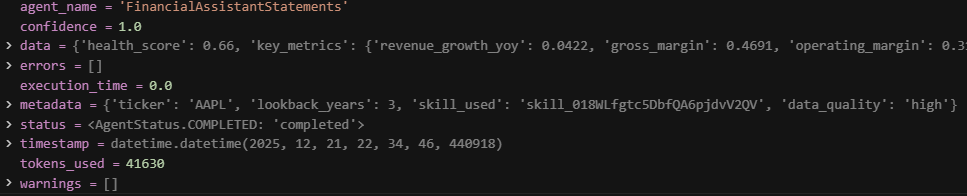
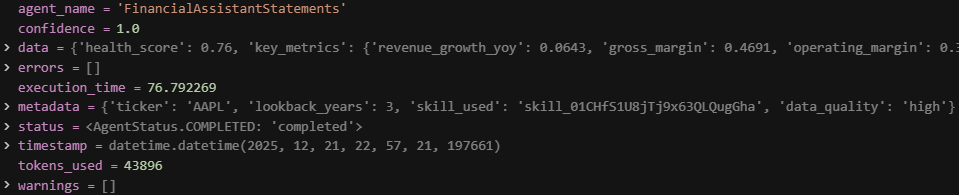
Fixed financial statements example and updated README

diff --git a/examples/financial_statements_example.py b/examples/financial_statements_example.py
@@ -23,7 +23,7 @@ async def main():
     skills_base_path = Path.cwd() / "src" / "skills"
     skill_specs = get_agent_skill_specs_for_system(client, skills_base_path)
     agent = FinancialAssistantStatements(client, skill_specs["statements"])
-    response = await agent.analyze(
+    response = await agent.execute(
         AgentTask(
             task_id="analyzing-financial-statements",
             ticker="AAPL",

diff --git a/src/agents/assistant_statements.py b/src/agents/assistant_statements.py
@@ -134,6 +134,7 @@ class FinancialAssistantStatements(BaseAgent):
                 "Total Revenue",
                 "Cost Of Revenue",
                 "Operating Income",
+                "Interest Expense",
             ]
         ]
         balance_sheet = balance_sheet.loc[

diff --git a/README.md b/README.md
@@ -121,13 +121,13 @@ The core of the agent's response is available in field `data`, which in addition
 - Data quality notes
 
 ```python
-'Financial data is complete for the 3-year analysis period (2023-2025). Some estimated calculations used for interest coverage due to unavailable interest expense data.'
+'Financial data is complete for 2022-2025 period. Interest expense data missing for 2024-2025, using 2023 data for coverage ratio. High quality data from reliable sources.'
 ```
 
 - Health score notes
 
 ```python
-"Health score of 0.660 reflects Apple's strong profitability and operational efficiency, offset by liquidity concerns from negative working capital. The company's exceptional ROE of 151.9% and consistent cash generation support the overall positive assessment despite short-term liquidity metrics."
+"Score of 0.76 reflects Apple's exceptional profitability (net margin 26.9%), solid growth trajectory, but considers liquidity constraints from negative working capital structure and moderate leverage levels. Strong cash generation and market position support overall health."
 ```
 
 
